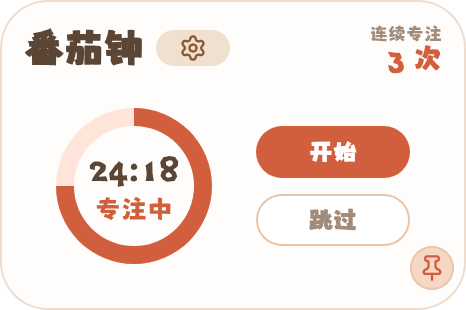
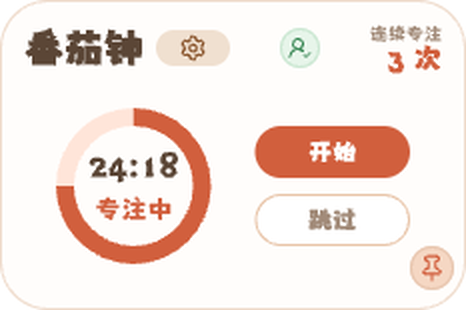
feat: show camera presence in pomodoro panel

diff --git a/app/src/ui/PomodoroPanel.test.tsx b/app/src/ui/PomodoroPanel.test.tsx
@@ -4,6 +4,11 @@ import path from 'node:path';
 import { describe, it, expect, vi, beforeEach, afterEach } from 'vitest';
 import { render, screen, fireEvent, cleanup, waitFor, act } from '@testing-library/react';
 import { usePomodoroStore } from '../domain/pomodoro';
+import {
+    applyPresenceSample,
+    usePresenceStore,
+    type PresenceAvailability,
+} from '../domain/presence';
 import { PomodoroPanel } from './PomodoroPanel';
 
 const { startDragging, invokeMock } = vi.hoisted(() => ({
@@ -37,6 +42,18 @@ function resetPomodoro() {
     });
 }
 
+function resetPresence() {
+    usePresenceStore.setState({
+        enabled: false,
+        availability: 'disabled',
+        latestObservation: 'unknown',
+        lastSuccessfulAt: null,
+        lastError: null,
+        inFlight: false,
+        generation: 0,
+    });
+}
+
 function pinCalls() {
     return invokeMock.mock.calls.filter(([cmd]) => cmd === 'set_main_window_pinned');
 }
@@ -49,6 +66,7 @@ beforeEach(() => {
     vi.stubGlobal('requestAnimationFrame', vi.fn(() => 1));
     vi.stubGlobal('cancelAnimationFrame', vi.fn());
     resetPomodoro();
+    resetPresence();
 });
 
 afterEach(() => {
@@ -101,6 +119,90 @@ describe('PomodoroPanel scale root', () => {
 
         expect(css).toMatch(/\.app-scale-root\s*\{[^}]*--app-ui-scale:\s*1/);
         expect(css).toMatch(/\.app-root\s*\{[^}]*zoom:\s*var\(--app-ui-scale\)/);
+    });
+});
+
+describe('PomodoroPanel camera presence status', () => {
+    it('shows the Pencil present state and switches immediately to the away state', () => {
+        usePresenceStore.setState({
+            enabled: true,
+            availability: 'ready',
+            latestObservation: 'unknown',
+            lastSuccessfulAt: null,
+        });
+        const { container } = render(<PomodoroPanel />);
+
+        act(() => {
+            applyPresenceSample(usePresenceStore, usePomodoroStore, {
+                observation: 'present',
+                availability: 'ready',
+                errorCode: null,
+            }, 1_000);
+        });
+
+        expect(screen.getByRole('status', { name: '检测到人，在工位' })).toBeTruthy();
+        expect(container.querySelector('.pomo-presence-status.is-present')).toBeTruthy();
+
+        act(() => {
+            applyPresenceSample(usePresenceStore, usePomodoroStore, {
+                observation: 'absent',
+                availability: 'ready',
+                errorCode: null,
+            }, 2_000);
+        });
+
+        expect(screen.getByRole('status', { name: '未检测到人，已离开' })).toBeTruthy();
+        expect(container.querySelector('.pomo-presence-status.is-absent')).toBeTruthy();
+    });
+
+    it('keeps the last successful state visible while the next sample is checking', () => {
+        usePresenceStore.setState({
+            enabled: true,
+            availability: 'checking',
+            latestObservation: 'present',
+            lastSuccessfulAt: 1_000,
+            inFlight: true,
+        });
+
+        render(<PomodoroPanel />);
+
+        expect(screen.getByRole('status', { name: '检测到人，在工位' })).toBeTruthy();
+    });
+
+    it.each([
+        ['feature disabled', false, 'disabled'],
+        ['permission required', true, 'permissionRequired'],
+        ['permission denied', true, 'permissionDenied'],
+        ['camera unavailable', true, 'noDevice'],
+        ['camera busy', true, 'busy'],
+        ['camera error', true, 'error'],
+    ] as const)(
+        'hides the icon when %s',
+        (_label, enabled, availability: PresenceAvailability) => {
+            usePresenceStore.setState({
+                enabled,
+                availability,
+                latestObservation: 'present',
+                lastSuccessfulAt: 1_000,
+            });
+
+            render(<PomodoroPanel />);
+
+            expect(screen.queryByRole('status')).toBeNull();
+        },
+    );
+
+    it('hides the icon before the first successful observation', () => {
+        usePresenceStore.setState({
+            enabled: true,
+            availability: 'ready',
+            latestObservation: 'unknown',
+            lastSuccessfulAt: null,
+        });
+
+        render(<PomodoroPanel />);
+
+        expect(screen.queryByRole('status')).toBeNull();
     });
 });
 

diff --git a/app/src/ui/PomodoroPanel.tsx b/app/src/ui/PomodoroPanel.tsx
@@ -2,6 +2,7 @@ import { useEffect, useRef } from 'react';
 import { getCurrentWindow } from '@tauri-apps/api/window';
 import { invoke } from '@tauri-apps/api/core';
 import { usePomodoroStore, formatMmSs, type PomodoroPhase } from '../domain/pomodoro';
+import { usePresenceStore, type PresenceObservation } from '../domain/presence';
 import { shouldStartWindowDrag } from './windowDrag';
 import './PomodoroPanel.css';
 
@@ -21,6 +22,7 @@ function phaseLabel(phase: PomodoroPhase, isRunning: boolean): string {
 
 export function PomodoroPanel() {
     const state = usePomodoroStore();
+    const presence = usePresenceStore();
     const tickRef = useRef<number | null>(null);
 
     useEffect(() => {
@@ -55,6 +57,12 @@ export function PomodoroPanel() {
     const clockState = clockStateOf(state.currentPhase, state.isRunning);
     const startLabel = state.isRunning ? '暂停' : '开始';
     const showSkip = state.isRunning && state.currentPhase !== 'completed';
+    const presenceObservation = presence.enabled
+        && (presence.availability === 'ready' || presence.availability === 'checking')
+        && presence.lastSuccessfulAt != null
+        && presence.latestObservation !== 'unknown'
+        ? presence.latestObservation
+        : null;
 
     const onStartClick = () => {
         const s = usePomodoroStore.getState();
@@ -119,16 +127,62 @@ export function PomodoroPanel() {
                             跳过
                         </button>
                     </div>
-                    <button
-                        className={`pomo-pin ${state.isPinned ? 'is-pinned' : ''}`}
-                        onClick={onTogglePin}
-                        aria-label="置顶"
-                        title={state.isPinned ? '取消置顶' : '置顶'}
-                    >
-                        <PinIcon active={state.isPinned} />
-                    </button>
                 </div>
+                {presenceObservation && (
+                    <PresenceStatus observation={presenceObservation} />
+                )}
             </div>
+            <button
+                className={`pomo-pin ${state.isPinned ? 'is-pinned' : ''}`}
+                onClick={onTogglePin}
+                aria-label="置顶"
+                title={state.isPinned ? '取消置顶' : '置顶'}
+            >
+                <PinIcon active={state.isPinned} />
+            </button>
+        </div>
+    );
+}
+
+function PresenceStatus({
+    observation,
+}: {
+    observation: Exclude<PresenceObservation, 'unknown'>;
+}) {
+    const present = observation === 'present';
+    return (
+        <div
+            className={`pomo-presence-status is-${observation}`}
+            role="status"
+            aria-label={present ? '检测到人，在工位' : '未检测到人，已离开'}
+            data-presence-observation={observation}
+        >
+            <svg
+                width="12"
+                height="12"
+                viewBox="0 0 24 24"
+                fill="none"
+                stroke="currentColor"
+                strokeWidth="2"
+                strokeLinecap="round"
+                strokeLinejoin="round"
+                aria-hidden="true"
+            >
+                {present ? (
+                    <>
+                        <path d="M2 21a8 8 0 0 1 13.292-6" />
+                        <circle cx="10" cy="8" r="5" />
+                        <path d="m16 19 2 2 4-4" />
+                    </>
+                ) : (
+                    <>
+                        <path d="M2 21a8 8 0 0 1 11.873-7" />
+                        <circle cx="10" cy="8" r="5" />
+                        <path d="m17 17 5 5" />
+                        <path d="m22 17-5 5" />
+                    </>
+                )}
+            </svg>
         </div>
     );
 }

diff --git a/app/src/ui/PomodoroPanel.css b/app/src/ui/PomodoroPanel.css
@@ -2,10 +2,11 @@
  * 外壳 233x155, padding 12, radius 24, stroke 1px #EFDCCD, fill #FFFDFBEE
  * 内容 BTIJv: layout vertical, gap 18, height 121
  *   ├─ head S3Nbk: horizontal, justify space_between, align center
- *   └─ contentRow DiaNW: gap 22, vertical padding 16
+ *   ├─ contentRow DiaNW: gap 22, vertical padding 16
  *       ├─ ClockRing nNt9z: 78x78
- *       ├─ chipsRow p4kgU: vertical, gap 8 (startBtn / skipBtn 各占满列宽)
- *       └─ pp-pin-btn HApJ0: absolute x=193 y=69, 22x22 round
+ *       └─ chipsRow p4kgU: vertical, gap 8 (startBtn / skipBtn 各占满列宽)
+ *   └─ presenceStatus uJiuO: absolute x=128 y=2, 20x20 round
+ * pp-pin-btn HApJ0: root absolute x=205 y=123, 22x22 round
  */
 
 .pomo-panel {
@@ -103,6 +104,37 @@
     line-height: 1;
     font-variant-numeric: tabular-nums;
 }
+
+/* presenceStatus uJiuO + presenceStatusIcon K8G3ut */
+.pomo-presence-status {
+    position: absolute;
+    left: 128px;
+    top: 2px;
+    z-index: 1;
+    display: inline-flex;
+    align-items: center;
+    justify-content: center;
+    width: 20px;
+    height: 20px;
+    border: 1px solid;
+    border-radius: 10px;
+    box-sizing: border-box;
+    pointer-events: none;
+}
+
+.pomo-presence-status.is-present {
+    background: #E7F5EA;
+    border-color: #CBE7D2;
+    color: #3D8A58;
+}
+
+.pomo-presence-status.is-absent {
+    background: #FBE8E2;
+    border-color: #EEC8BD;
+    color: #C65D46;
+}
+
+.pomo-presence-status svg { display: block; }
 
 /* ----- contentRow ----- */
 
@@ -209,14 +241,11 @@
     background: #FFF7EE;
 }
 
-/* pp-pin-btn HApJ0 (cM79C): absolute, 22x22, radius 11.
- * Design: HApJ0 在 contentRow 内 x=193 y=69 — pin right edge intentionally extends past
- * contentRow's right-padded content area (193) into the panel-padding zone, leaving 6px
- * to the panel border (panel 233 − padding 12 − pomo-body pin-x (193+22) = 6). */
+/* pp-pin-btn HApJ0 (cM79C): root absolute x=205 y=123, 22x22, radius 11. */
 .pomo-pin {
     position: absolute;
-    left: 193px;
-    top: 69px;
+    left: 205px;
+    top: 123px;
     width: 22px;
     height: 22px;
     border-radius: 11px;
